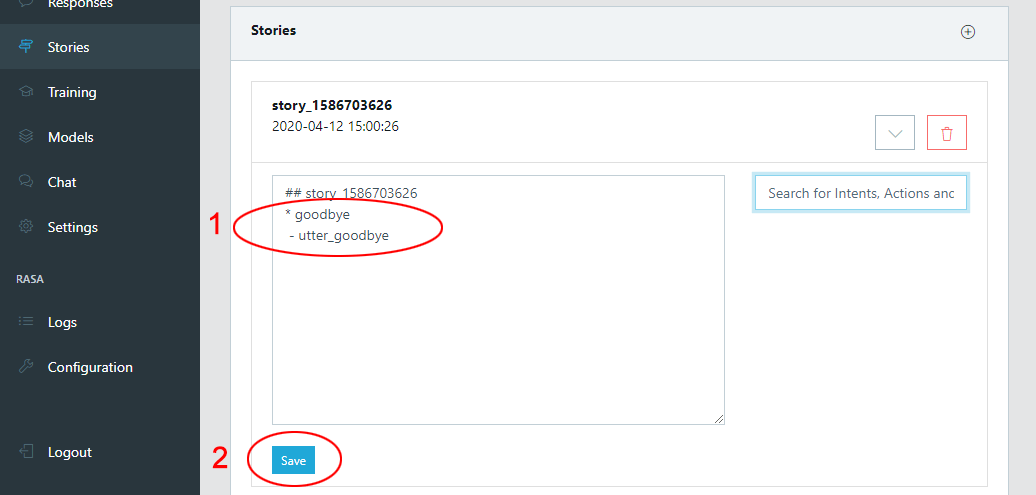
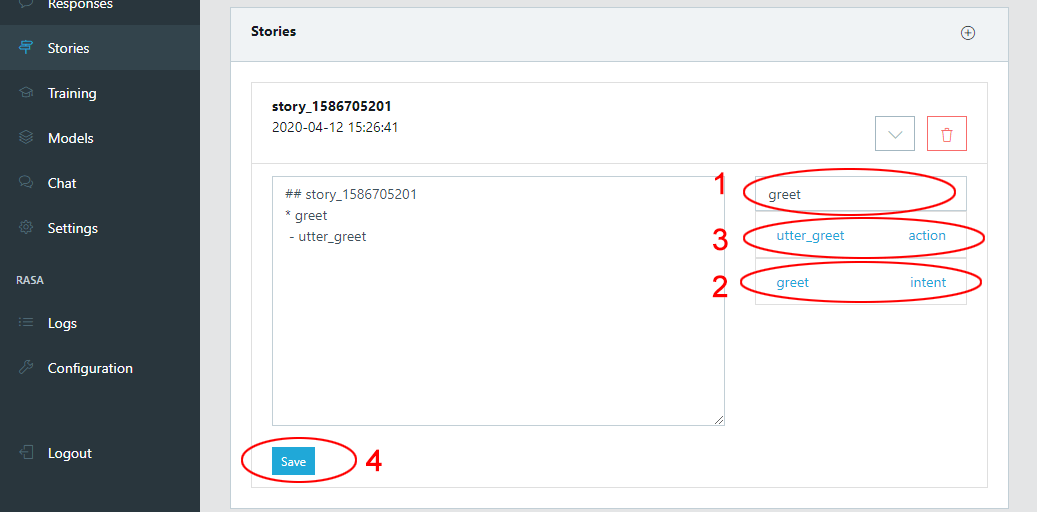
final readmee update

diff --git a/README.md b/README.md
@@ -1,5 +1,3 @@
-## !! This project is a work in progress.
-
 # Set up [RASA](https://rasa.com/) chatbot using [Rasa UI](https://github.com/paschmann/rasa-ui) and [webchat](https://github.com/botfront/rasa-webchat)
 
 **Youtube playlist** \
@@ -49,7 +47,7 @@ rasa init --no-prompt
 
 :warning: **Note - above command will overwrite all training data file with existing files if there any**
 
-below files will crate in **/app/** folder and will Training an initial model
+below files will create in **/app/** folder and will Training an initial model
 
 <table>
     <tr>
@@ -121,7 +119,7 @@ docker-compose down
 
 <br>
 
-## Rasa Webchat
+# Rasa Webchat
 Use [Rasa webchat](https://github.com/botfront/rasa-webchat) widget to connect with a chatbot 💬 platform. \
 Create index.html in **/html/** folder and paste below code on body tag.
 
@@ -157,10 +155,10 @@ Now again up docker-compose using below command
 docker-compose up -d
 ```
 
-Now you can test your new created chatbot on [http://localhost:8100/](http://localhost:8100/) url
+Now you can test your newly created chatbot on [http://localhost:8100/](http://localhost:8100/) url
 <br><br><br>
 
-## Train NLU model using RASA server
+# Train NLU model using RASA server
 
 You can train your NLU model by editing training data file from **/app/ folder** 
 <br><br>
@@ -173,7 +171,7 @@ rasa train
 
 This command will the trained model and save trained model into the **/app/models/** directory.
 <br><br>
-Whenever you trained model, you have to down the docker containers and again have to up the docker containers using the below command to make active newly trained model in production.
+Whenever you train a model, you have to down the docker containers and again have to up the docker containers using the below command to make active newly trained model in production.
 
 ```bash
 docker-compose down
@@ -187,41 +185,44 @@ docker-compose up -d
 
 <br><br>
 
-## Train NLU model using [Rasa UI](https://github.com/paschmann/rasa-ui) server
+# Train NLU model using [Rasa UI](https://github.com/paschmann/rasa-ui) server
 
 You can train NLU model using Rasa UI web application. for more detail about Rasa UI check below link \
 [https://github.com/paschmann/rasa-ui](https://github.com/paschmann/rasa-ui)
 
 You can connect Rasa UI web application on [http://localhost:5001](http://localhost:5001) \
-As per Rasa UI username is "admin" and password is "admin". but you can change this by editing environment variable from docker-compose.yml file. 
+As per Rasa UI username is "admin" and password is "admin". but you can change these details by editing the environment variable in docker-compose.yml file. 
 Now as per docker-compose.yml file login details are below \
 **username - admin** \
 **password - 321**
 
-Use the below command to connect Rasa UI container
+below command are useful to connect and check logs of docker container 
 
 ```language
 docker exec -it <rasa_ui container id> sh
+docker logs --follow <rasa container id>
 ```
+
 
 Below are steps to train NLU Model.
 
 ### Create a New Bot and Intents  
 Connect Rasa UI web application on [http://localhost:5001](http://localhost:5001).
 ![example1](raw/dashboard.jpg)
-Select tab "Bots" from left side panel,
+Select "Bots" tab from left side panel,
 
-<br><br><br>
+<br>
 
 ![example1](raw/create-bot.jpg)
-Click on right top (+) button to add a new bot.
+Click on the (+) button from right top to add a new bot.
 
-<br><br><br>
+<br>
 
 
 ![example1](raw/bot-setting.png)
-Give name for bot \
-In **"Config"** field add pipeline and policies. keep below code in config
+1. Give a name for bot \
+2. In **"Server Output Folder"** filed add path **/app/models/**.
+3. In **"Config"** field add pipeline and policies. keep below code
 
 ```yml
 # Configuration for Rasa NLU.
@@ -247,17 +248,16 @@ For more information about Pipeline and Policies check below links \
 [https://rasa.com/docs/rasa/nlu/choosing-a-pipeline/](https://rasa.com/docs/rasa/nlu/choosing-a-pipeline/) \
 [https://rasa.com/docs/rasa/core/policies/](https://rasa.com/docs/rasa/core/policies/)
 
-In **"Server Output Folder"** filed add path **/app/models/**.
 
-<br><br><br>
+<br><br>
 
  ![Select Bot](raw/select-bot.jpg)
  Now select newly created Bot
 
-<br><br><br>
+<br><br>
 
 ![Create New Intent](raw/create-new-intent.jpg)
-Create Intents
+Click on the (+) button to create Intents
 
 <br><br><br>
 
@@ -266,13 +266,13 @@ Give name for Intent. I have given "greet". Then Save it.
 
 <br><br><br>
 
-![Selet Intent to Edit](raw/intent-to-edit.jpg)
-Now Select newly created Intent "greet".
+![Select Intent to Edit](raw/intent-to-edit.jpg)
+Now Select the newly created Intent "greet".
 
 <br><br><br>
 
 ![Save edited Intent](raw/save-edited-intent.jpg)
-Enter an expression and press enter. I have entered below expression for **"greet"** intent.
+Enter an expression and press enter. I have entered below expressions for **"greet"** intent.
 - hey
 - hello
 - hi
@@ -280,7 +280,7 @@ Enter an expression and press enter. I have entered below expression for **"gree
 - good evening
 - hey there
 
-Using below data ceate more Intent following above step. 
+Use the below data and create more Intent following the above steps. 
 
 *intent -* **goodbye**
 - bye
@@ -328,17 +328,74 @@ Using below data ceate more Intent following above step.
 <br><br><br>
 
 ### Create responses/replies using Actions for intents/user inputs
-![Selet response tab](raw/response-tab-select.png)
-`1.` to create response for intent click on  **"Response"** from left side
+we will create below responses for intents
+```language
+  utter_greet:
+  - text: "Hey! How are you?"
+
+  utter_cheer_up:
+  - text: "Here is something to cheer you up:"
+
+  utter_did_that_help:
+  - text: "Did that help you?"
+
+  utter_happy:
+  - text: "Great carry on!"
+
+  utter_goodbye:
+  - text: "Bye"
+```
+
+
+![Select response tab](raw/response-tab-select.png)
+1. to create response for intent click on  **"Response"** from left side
+2. Select **"rasa"** bot from dropdown
+
 <br>
-2. Select **"rasa"** bot
+
+![Select response tab](raw/response-click-on-action.png)
+click on the plus (+) button to add response
+
+<br>
+
+![Select response tab](raw/response-type.png)
+1. In the name field add the response name "greet". Always **"utter_"** before response/action name. So response/action name will be **"utter_greet"**.
+2. Click on the save button
+
+<br>
+
+![Select response tab](raw/response-add-text-plus.png)
+Now click on the (+) button to add response text
+
+<br>
+
+![Select response tab](raw/response-write-text-response.png)
+1.  Select "text" from dropdown.
+2. Enter the response text. I have added "Hey! How are you?"
+3. Click ![save](raw/response-tick-button.png) button to save.
+4. you can add more response text for one action.
+
+Add below responses using the above step.
+```language
+  utter_cheer_up:
+  - text: "Here is something to cheer you up:"
+
+  utter_did_that_help:
+  - text: "Did that help you?"
+
+  utter_happy:
+  - text: "Great carry on!"
+
+  utter_goodbye:
+  - text: "Bye"
+```
 
 <br><br><br>
 
-### Write Your Stories using intents and responses
-Here, you will teach your assistant how to respond to your messages. Core models learn from real conversational data in the form of training “stories”. A story is a real conversation between a user and an assistant. Lines with intents and entities reflect the user’s input and action names show what the assistant should do in response.
+### Write Stories using intents and responses
+Here, you will teach your chatbot how to respond to your messages. Core models learn from real conversational data in the form of training “stories”. A story is a real conversation between a user and chatbot. Lines with intents and entities reflect the user’s input and action names show what the chatbot should do in response.
 
-Below is an example of a simple conversation. The user says hello, and the assistant says hello back. This is how it looks as a story:
+Below is an example of a simple conversation. The user says hello, and the chatbot says "Hey! How are you?". This is how it looks as a story:
 
 **story1**
 ```language
@@ -351,9 +408,8 @@ Below is an example of a simple conversation. The user says hello, and the assis
 
 Below are steps to add story in RASA UI
 ![select story tab](raw/select-story-tab.png)
-`1. `Select Story tab from left side.
-<br>
-`2. `Select "rasa" bot.
+1. Select the Story tab from the left side.
+2. Select "rasa" bot from dropdown.
 
 <br>
 
@@ -363,18 +419,81 @@ Click on plus (+) button to add story
 <br>
 
 ![expand story arrow](raw/story-click-plus-button.png)
-Click on arrow button to write story.
+Click on the arrow button to write the story.
 
 <br>
 
 ![write story and save](raw/story-write-save.png)
-1. This is an example of a simple conversation. The user says hello for this write intent greet as "* greet", and the assistant says hello back for this write utter as "   - utter_greet". also write for mood_happy. story will look link below.
+1. Type "greet" in search box
+2. from the dropdown click on "greet" intent. When you click on it, the "greet" intent will add in the story.
+3. Then click on "utter_greet" action from the dropdown. 
+
+Using the above steps add "mood_great" intent and "utter_happy" action. Now the story will look like below.
 ```language
 ## happy path
 * greet
   - utter_greet
 * mood_great
   - utter_happy
-``` 
-2. Then save the story.
+```
+4. This is one story. Click on the save button to save this story.
 
+Now add below stories using above steps
+```language
+## sad path 1
+* greet
+  - utter_greet
+* mood_unhappy
+  - utter_cheer_up
+  - utter_did_that_help
+* affirm
+  - utter_happy
+
+## sad path 2
+* greet
+  - utter_greet
+* mood_unhappy
+  - utter_cheer_up
+  - utter_did_that_help
+* deny
+  - utter_goodbye
+
+## say goodbye
+* goodbye
+  - utter_goodbye
+```
+
+<br><br><br>
+
+### Train a Model
+After any update in NLU or Core data, or update the domain or configuration, we need to train a model. Below are steps to Train a Model.
+
+![Train a Model](raw/training-select-model-tab.png)
+1. Select the "Training" tab from the left side.
+2. Select "rasa" bot from dropdown.
+3. add a comment. I have added "first training of model".
+4. Click on the "Start Training" button.
+
+Below message will display on the top side while training a model. It may take a few minutes to train a model depending on system configuration.
+![Train a Model](raw/training-message-running.png)
+
+After completed training below message will display
+![Train a Model](raw/training-message-completed.png)
+
+<br><br><br>
+
+### Update/Activate a Model
+Below are the steps to update/activate a model.
+![Train a Model](raw/update-model.png)
+1. Select the "Models" tab from the left side.
+2. Select "rasa" bot from dropdown.
+3. You can see your trained model in the Model table and comment in the comment column.
+4. Click on ![Train a Model](raw/update-activate-button.png) button to update/active model.
+
+ It may take a few minutes to update/activate a model depending on system configuration. while the updating model loading message will display on the top side.
+ ![Train a Model](raw/update-message-loading.png)
+ 
+ After the updated/activated model below message will display.
+ ![Train a Model](raw/update-message-loaded.png)
+
+ Now you can test your newly activated model in chatbot on [http://localhost:8100/](http://localhost:8100/) url
